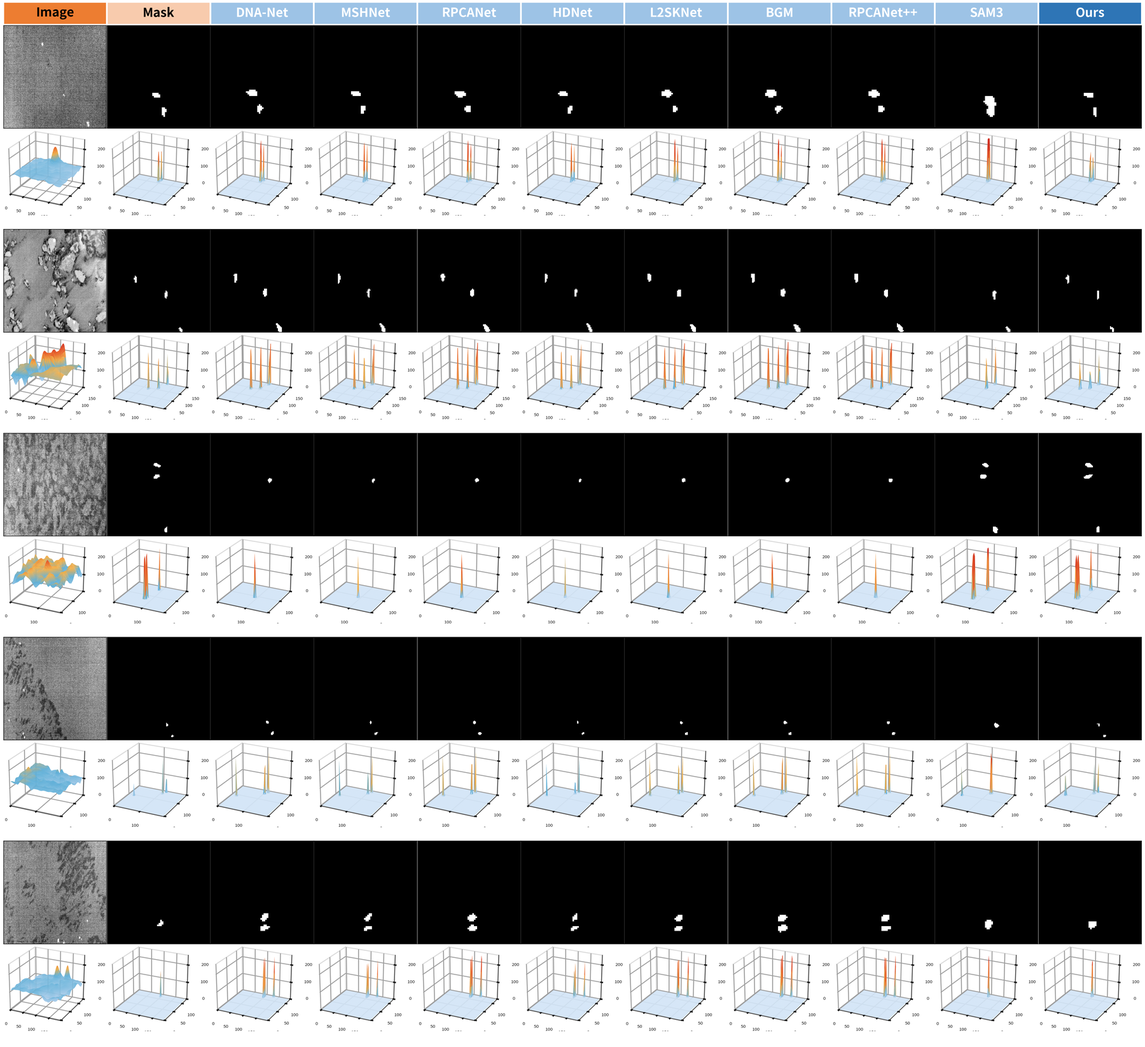
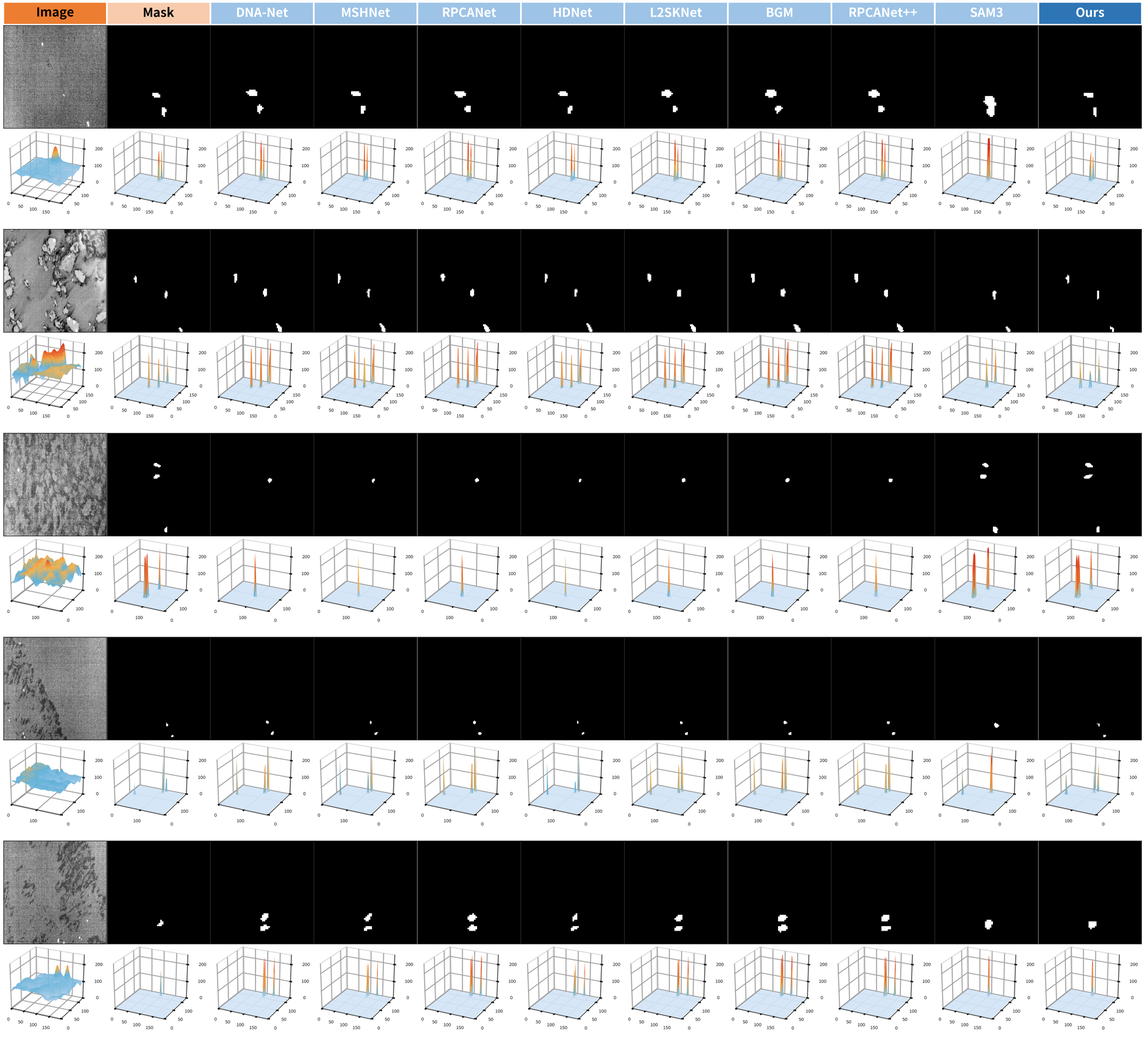
定性图 v12：3D 刻度收紧并改用 tight bbox，Visio ALL 页 3D 图缩小让开表头

diff --git a/tools/build_paper_qualitative.py b/tools/build_paper_qualitative.py
@@ -53,6 +53,8 @@ RED = (0, 0, 255)          # BGR
 ZOOM = 10
 MARGIN = 32
 MIN_BOX = 80
+# 3D 面板固定输出画布（1200 dpi 下 0.873x0.733 in 裁边后的实际尺寸），保证所有面板同比例
+SURF_W, SURF_H = 848, 804
 
 # 3D 响应面配色：浅蓝底（亮、不压抑）+ 暖色峰（金 → 橙 → 红）
 SURF_CMAP = LinearSegmentedColormap.from_list('seal3d', [
@@ -317,13 +319,31 @@ def trim_white(img_bgr, pad=10, thr=250):
     return img_bgr[y0:y1, x0:x1]
 
 
+def pad_to_canvas(img_bgr, W, H):
+    """Center the trimmed 3D render on a fixed WxH white canvas (no distortion).
+
+    固定画布保证所有 3D 面板同尺寸，Visio/拼图按同一比例摆放；内容大于画布时按比例缩小。
+    """
+    h, w = img_bgr.shape[:2]
+    if h > H or w > W:
+        s = min(W / float(w), H / float(h))
+        img_bgr = cv2.resize(img_bgr, (max(1, int(w * s)), max(1, int(h * s))),
+                             interpolation=cv2.INTER_AREA)
+        h, w = img_bgr.shape[:2]
+    out = np.full((H, W, 3), 255, np.uint8)
+    y0, x0 = (H - h) // 2, (W - w) // 2
+    out[y0:y0 + h, x0:x0 + w] = img_bgr
+    return out
+
+
 def render_surface_png(arr, path, vmax, cmap='jet', gamma=0.45,
-                       size_in=(0.873, 0.733), dpi=1200, pad=14):
+                       size_in=(0.873, 0.733), dpi=1200, pad=14,
+                       canvas=(SURF_W, SURF_H)):
     """One 3D box as a standalone PNG, tight-cropped so the box fills the frame.
 
     `arr` is the already-smoothed response crop. Rendered at one cell of the composite
     figure (0.873 x 0.733 in) with the same tick font, then the white border is trimmed
-    to `pad` px, so pasting it back with aspect='auto' fills the cell.
+    to `pad` px and centred on a fixed `canvas` so every panel shares one aspect ratio.
     """
     path.parent.mkdir(parents=True, exist_ok=True)
     f = plt.figure(figsize=size_in, dpi=dpi, facecolor='white')
@@ -333,15 +353,19 @@ def render_surface_png(arr, path, vmax, cmap='jet', gamma=0.45,
     import io
 
     buf = io.BytesIO()
-    f.savefig(buf, format='png', dpi=dpi, facecolor='white')
+    # bbox_inches='tight'：3D 轴的刻度数字会画到 axes 之外，不 tight 就会被画布裁掉
+    f.savefig(buf, format='png', dpi=dpi, facecolor='white',
+              bbox_inches='tight', pad_inches=0.02)
     plt.close(f)
     img = cv2.imdecode(np.frombuffer(buf.getvalue(), np.uint8), cv2.IMREAD_COLOR)
     img = trim_white(img, pad=pad)
+    if canvas:
+        img = pad_to_canvas(img, canvas[0], canvas[1])
     cv2.imwrite(str(path), img)
     return path
 
 
-def add_surface(ax, arr, vmax=255.0, cmap=SURF_CMAP, tick_font=2.2, gamma=0.40):
+def add_surface(ax, arr, vmax=255.0, cmap=SURF_CMAP, tick_font=2.35, gamma=0.40):
     """PDDiff Fig. 9 style surface with a legible wireframe and tick labels.
 
     `arr` must already be smoothed; `vmax` is normally the peak of `arr`, so the target
@@ -368,9 +392,9 @@ def add_surface(ax, arr, vmax=255.0, cmap=SURF_CMAP, tick_font=2.2, gamma=0.40):
     ax.yaxis.set_major_locator(loc)
     ax.zaxis.set_major_locator(MaxNLocator(nbins=3, integer=True, steps=[1, 2, 2.5, 5, 10]))
     for axis in ('x', 'y'):
-        ax.tick_params(axis=axis, labelsize=tick_font, pad=-3.0, length=0.9, width=0.4,
+        ax.tick_params(axis=axis, labelsize=tick_font, pad=-4.2, length=0.9, width=0.4,
                        colors='0.10')
-    ax.tick_params(axis='z', labelsize=tick_font, pad=-1.5, length=0.9, width=0.4,
+    ax.tick_params(axis='z', labelsize=tick_font, pad=-2.2, length=0.9, width=0.4,
                    colors='0.10')
     # 面板只有 0.87 in 宽，再放 X/Y/Z 轴名会和刻度数字撞在一起，只保留三向刻度数字
     ax.set_xlabel('')

diff --git a/AGENTS.md b/AGENTS.md
@@ -63,7 +63,7 @@
 - DRPCA-Net 的 11.23 FPS 是实现开销而非测量噪声：`torch.profiler` 显示单次前向 CUDA 时间的 81.8 % 花在 `ChannelAttention` 的 `nn.AdaptiveMaxPool2d(1)`（每前向 29 次调用），且延迟对 batch 1/2/4 不敏感（85/56/65 ms）。按官方代码如实记录，不改实现。口径、对照表与差异分析见 [Seal 复杂度指标说明](docs/Seal复杂度指标_说明.md)。
 - 平凡基线（决定读表方式，不新增表行）：全背景预测（1,983 张全零）在同一 test GT 上为 S 0.49990、Fw 0、E 0.25、MAE 0.00020553，IoU/F1/Pd/Fa 均为 0。12 个基线与 Ours 的 S（0.49800–0.49956）全部低于该值，12 个基线的 MAE（0.000229–0.000375）全部高于该值，只有 Ours 的 MAE（0.00020248）低于它，余量仅 1.5 %（旧预测 0.00015090 时余量 27 %）。因此 S/MAE 在 Seal 上不区分方法，比较以 Fw/IoU/F1/Pd/Fa 为主，S/MAE 须与平凡基线并列阅读；复算见 [汇总](docs/Seal全监督基线评估汇总.md#平凡基线全背景预测)。
 - 第三批（入表，行 29～32）：L2SKNet（TGRS25）、BGM（TGRS25）、DRPCA-Net（TGRS25）、DURD（TGRS26），均为 2025–2026 年、有官方代码的全监督单帧方法，12 个对比方法到此凑满。目录 `L2SKNet-main/`、`BGM-main/`、`DRPCA-Net-main/`、`DURD-main/`；训练设置：L2SKNet 150/Adam 5e-4、BGM 150/Adam 5e-4（两者模型输出已是概率，用概率空间 dataset 级 IoU）、DRPCA-Net 60/Adam 3e-5/dataset 级 SoftIoU + 0.01 MSE、DURD 100/Adam 1e-4/SoftIoU + 0.1 MSE。各处改动逐条写在对应实验记录与 [汇总](docs/Seal全监督基线评估汇总.md#训练不稳定与失败记录)。
-- 论文版式定性图（对齐 PDDiff Fig. 8/9）：[tools/build_paper_qualitative.py](tools/build_paper_qualitative.py)，每个样例两行（2D 二值面板 + 红框/放大插图；3D 响应面 `elev=26, azim=-64`、按面板 z 上限）。三条硬约束：① 3D 行必须喂**概率图**（`--surf-maps results/<M>/Seal/fullsup_test_maps`），二值图是 0/255 阶跃，画出来只有一根尖刺；② Seal 目标只有 3–5 px，`full` 版式（整幅 + 右下插图）在 0.87 in 列宽下几乎看不见，正式图用 `--roi-panels`（面板 = 6 倍放大 ROI，`--roi-min 64 --roi-margin 24`）；③ 11 列 × 11 样例按 9.6 in 出图，若按 7.2 in 排版表头掉到 5.6 pt，主图应拆成 `seal_pick6_roi` + `seal_pick5_roi` 两张。样例取 [docs/qualitative_rank_top200.json](docs/qualitative_rank_top200.json)（`score = F1(Ours) − mean_k F1(baseline_k)`，可用 [docs/qualitative_review_top200.html](docs/qualitative_review_top200.html) 逐图复核），当前采用排名 1,2,5,6,8,11,13,15,19,21,29 共 11 张，一键重建 [tools/make_paper_qualitative_pick.sh](tools/make_paper_qualitative_pick.sh)。Ours 预测在 `Ours/test_maps`（1,983 张概率图）、SAM3 在 `Ours/SAM3-test_maps`（同阈值 `>=128`）。版式规格、样例清单与读数见 [docs/Seal定性图_论文版式.md](docs/Seal定性图_论文版式.md)，预览 `docs/assets/seal_qualitative_pick6_roi.png`、`docs/assets/seal_qualitative_pick11_full.png`。全分辨率成品（600 dpi PNG + 矢量 PDF + meta，约 110 MB/版）按版本归档：服务器保留全部历史（v1 `Ours/qualitative/v1_20261104_11col/`、v2 `v2_20261105/`、v3 `v3_20261105/`、v4 `v4_20261105/`、v5 `v5_20261105/`、v6 `v6_20261105/`、v7 `v7_20261105/`、v8 `v8_20261105/`、v9 `v9_20261105/`、v10 `v10_20261105/`、v11 `v11_20261105/`、v12 `v12_20261105/`），本地只留最新一版在 `Ours/qualitative/v12_20261105/`；**整个 `Ours/qualitative/` 不进 git**（`.gitignore` 整目录排除，只有 `docs/assets/` 里的 1800 px 预览入库）。版式演进：v2 压紧列间距、3D 加网格 + 整数刻度 + 轴名、去掉黑色粗轴线；v3 加单图拆分与 Visio；v4 让 3D 盒子铺满格子（按格子尺寸渲染 PNG → 裁白边 → `aspect='auto'` 贴回）；**v5 解决「3D 白边仍偏大、峰不够高不够显眼」：裁边 26→6 px、平滑 σ 2.0→0.9、`vmax` 取平滑后峰值（峰顶到天花板）、Z 轴统一 0–255 保证跨列可比、盒子 z 比例 0.55→1.00、自定义 `seal3d` 色带（深蓝底→青→黄→亮红）+ `PowerNorm(0.45)`**；并新增 `--diag` 诊断面板（TP 白 / FP 红 / FN 绿 + 红框标 GT），Visio 改用诊断面板；**v6 把诊断面板的红框放大到至少占面板 36%（约 138 px、3 px 线）**；**v11：Ours 换成 1105 最新预测**（`Ours/test_maps` ← `1105Ours_result/Ours.zip`，旧预测存 `Ours/test_maps_20261105_prev`），版式同 v10；11 个样例在新预测下 F1 0.55–0.87、目标全检出（9 个胜全部基线，2 个仅比 SAM3 低 0.01–0.02），故沿用原 11 张；**v10 红框只留一个**：Image 列回到整幅 622×417（压缩成正方形）并画唯一一个正方形红框（v11 曾把边长统一为 `64×sqrt(sx·sy)≈48 px`；**v12 起 Image 列不再画任何红框**——统一 48 px 对 2688/2120/2894 三个大目标偏小、目标露到框外，而各列本来就是同一 ROI 的 6 倍放大，定位框不再必要，实测 Image 列 0 个红色像素；`--image-box` 仅保留为复现 v10/v11 的开关），Mask…Ours 不再画任何红框，保留 TP 白/FP 红/FN 绿；`--image-mode crop417` 可换成 417×417 原比例窗口；**v9 去掉黑边**：ROI 从「以目标为中心后按边界裁」改成「固定边长正方形、贴边整体内移」，窗口永远完整落在图像内（此前 2735 这类贴右边界的样例裁成 64×43 后被补黑）；**v8 修正 Image 列**：原来它是整幅 622×417（红框=ROI 窗口），而 Mask/方法列是已经放大 6 倍的 ROI 块（红框=GT 定位框），两者天然不对应——现在 Image 列也取同一块 ROI 的 6 倍放大并套同一个定位框，11 列视野与框位置完全一致——红框是给人定位用的，v5 那版只比 GT 外扩 8 px，印刷尺寸下等于没有。**v7 再优化三点：① 3D 网格线 0.62 灰 / 0.45 pt、刻度数字 2.2 pt 近黑、每轴 3 个好刻度、去掉会撞车的 X/Y/Z 轴名；② Image 列 3D 改彩色（`seal3d` 色带 + 线性映射，与 PDDiff 一致）；③ 诊断面板遇到多目标时每个连通域各画一个红框（单目标 36% 面板、多目标 0.45/n）**。Visio 版由 [tools/make_visio_qualitative.ps1](tools/make_visio_qualitative.ps1) 用 Visio COM 生成（仅 Windows + 已装 Visio）：**第 1 页 `ALL` 把 11 个样例纵向摞成一页**（表头只出现一次，253 个形状，15×31.3 in），之后每样例一页（每页 34 个独立形状：表头矩形 + 22 张图片 + 页脚说明），全部可手动调整格式。
+- 论文版式定性图（对齐 PDDiff Fig. 8/9）：[tools/build_paper_qualitative.py](tools/build_paper_qualitative.py)，每个样例两行（2D 二值面板 + 红框/放大插图；3D 响应面 `elev=26, azim=-64`、按面板 z 上限）。三条硬约束：① 3D 行必须喂**概率图**（`--surf-maps results/<M>/Seal/fullsup_test_maps`），二值图是 0/255 阶跃，画出来只有一根尖刺；② Seal 目标只有 3–5 px，`full` 版式（整幅 + 右下插图）在 0.87 in 列宽下几乎看不见，正式图用 `--roi-panels`（面板 = 6 倍放大 ROI，`--roi-min 64 --roi-margin 24`）；③ 11 列 × 11 样例按 9.6 in 出图，若按 7.2 in 排版表头掉到 5.6 pt，主图应拆成 `seal_pick6_roi` + `seal_pick5_roi` 两张。样例取 [docs/qualitative_rank_top200.json](docs/qualitative_rank_top200.json)（`score = F1(Ours) − mean_k F1(baseline_k)`，可用 [docs/qualitative_review_top200.html](docs/qualitative_review_top200.html) 逐图复核），当前采用排名 1,2,5,6,8,11,13,15,19,21,29 共 11 张，一键重建 [tools/make_paper_qualitative_pick.sh](tools/make_paper_qualitative_pick.sh)。Ours 预测在 `Ours/test_maps`（1,983 张概率图）、SAM3 在 `Ours/SAM3-test_maps`（同阈值 `>=128`）。版式规格、样例清单与读数见 [docs/Seal定性图_论文版式.md](docs/Seal定性图_论文版式.md)，预览 `docs/assets/seal_qualitative_pick6_roi.png`、`docs/assets/seal_qualitative_pick11_full.png`。全分辨率成品（600 dpi PNG + 矢量 PDF + meta，约 110 MB/版）按版本归档：服务器保留全部历史（v1 `Ours/qualitative/v1_20261104_11col/`、v2 `v2_20261105/`、v3 `v3_20261105/`、v4 `v4_20261105/`、v5 `v5_20261105/`、v6 `v6_20261105/`、v7 `v7_20261105/`、v8 `v8_20261105/`、v9 `v9_20261105/`、v10 `v10_20261105/`、v11 `v11_20261105/`、v12 `v12_20261105/`），本地只留最新一版在 `Ours/qualitative/v12_20261105/`；**整个 `Ours/qualitative/` 不进 git**（`.gitignore` 整目录排除，只有 `docs/assets/` 里的 1800 px 预览入库）。版式演进：v2 压紧列间距、3D 加网格 + 整数刻度 + 轴名、去掉黑色粗轴线；v3 加单图拆分与 Visio；v4 让 3D 盒子铺满格子（按格子尺寸渲染 PNG → 裁白边 → `aspect='auto'` 贴回）；**v5 解决「3D 白边仍偏大、峰不够高不够显眼」：裁边 26→6 px、平滑 σ 2.0→0.9、`vmax` 取平滑后峰值（峰顶到天花板）、Z 轴统一 0–255 保证跨列可比、盒子 z 比例 0.55→1.00、自定义 `seal3d` 色带（深蓝底→青→黄→亮红）+ `PowerNorm(0.45)`**；并新增 `--diag` 诊断面板（TP 白 / FP 红 / FN 绿 + 红框标 GT），Visio 改用诊断面板；**v6 把诊断面板的红框放大到至少占面板 36%（约 138 px、3 px 线）**；**v11：Ours 换成 1105 最新预测**（`Ours/test_maps` ← `1105Ours_result/Ours.zip`，旧预测存 `Ours/test_maps_20261105_prev`），版式同 v10；11 个样例在新预测下 F1 0.55–0.87、目标全检出（9 个胜全部基线，2 个仅比 SAM3 低 0.01–0.02），故沿用原 11 张；**v10 红框只留一个**：Image 列回到整幅 622×417（压缩成正方形）并画唯一一个正方形红框（v11 曾把边长统一为 `64×sqrt(sx·sy)≈48 px`；**v12 起 Image 列不再画任何红框**——统一 48 px 对 2688/2120/2894 三个大目标偏小、目标露到框外，而各列本来就是同一 ROI 的 6 倍放大，定位框不再必要，实测 Image 列 0 个红色像素；`--image-box` 仅保留为复现 v10/v11 的开关），Mask…Ours 不再画任何红框，保留 TP 白/FP 红/FN 绿；**v12 同时收紧 3D 刻度**：刻度数字向坐标轴收拢（x/y `pad` −3.0→−4.2、z −1.5→−2.2，字号 2.2→2.35），3D 渲染改用 `bbox_inches='tight'` 并统一贴到 848×804 画布（此前 3D 轴的数字画在 axes 之外、被画布直接裁掉，放进 Visio 后又被下一个样例的表头挡住），Visio `ALL` 页的 3D 图缩到 1.07 in 高（宽同比 1.129）让开下一块表头，2D 行与手画红框位置不动；`--image-mode crop417` 可换成 417×417 原比例窗口；**v9 去掉黑边**：ROI 从「以目标为中心后按边界裁」改成「固定边长正方形、贴边整体内移」，窗口永远完整落在图像内（此前 2735 这类贴右边界的样例裁成 64×43 后被补黑）；**v8 修正 Image 列**：原来它是整幅 622×417（红框=ROI 窗口），而 Mask/方法列是已经放大 6 倍的 ROI 块（红框=GT 定位框），两者天然不对应——现在 Image 列也取同一块 ROI 的 6 倍放大并套同一个定位框，11 列视野与框位置完全一致——红框是给人定位用的，v5 那版只比 GT 外扩 8 px，印刷尺寸下等于没有。**v7 再优化三点：① 3D 网格线 0.62 灰 / 0.45 pt、刻度数字 2.2 pt 近黑、每轴 3 个好刻度、去掉会撞车的 X/Y/Z 轴名；② Image 列 3D 改彩色（`seal3d` 色带 + 线性映射，与 PDDiff 一致）；③ 诊断面板遇到多目标时每个连通域各画一个红框（单目标 36% 面板、多目标 0.45/n）**。Visio 版由 [tools/make_visio_qualitative.ps1](tools/make_visio_qualitative.ps1) 用 Visio COM 生成（仅 Windows + 已装 Visio）：**第 1 页 `ALL` 把 11 个样例纵向摞成一页**（表头只出现一次，253 个形状，15×31.3 in），之后每样例一页（每页 34 个独立形状：表头矩形 + 22 张图片 + 页脚说明），全部可手动调整格式。
 - 定性图（论文拼图用）：12 个方法与 Ours 的二值预测图在 `results/<Method>/Seal/test_binary/`（1,983 张，`pixel >= 128` → 255），由 [tools/make_binary_maps.py](tools/make_binary_maps.py) 与 [tools/make_qualitative.sh](tools/make_qualitative.sh) 生成；样例拼图在服务器 `qualitative/<stem>/panel.png`（RGB/热红外/GT/预测叠加，13 行），样例清单 `docs/Seal定性对比样例.json`，说明见 [docs/Seal定性对比图.md](docs/Seal定性对比图.md)。
 - ROC / P-R / Pd–Fa 曲线：像素级曲线用 [tools/roc_hist.py](tools/roc_hist.py) 把预测值按 GT 前景（`gt > 127`）/背景分箱成 256 桶直方图（[tools/roc_hist_all.sh](tools/roc_hist_all.sh) → `results/roc_hist/<Method>.json`），目标级曲线用 [tools/target_curves.py](tools/target_curves.py) 在 63 个阈值上做 8 连通 + 质心 <3 px 一对一匹配（[tools/target_curves_all.sh](tools/target_curves_all.sh) 13 进程并行约 1.5 h → `results/target_curves/<Method>.json`）；出图分别是 [tools/plot_roc_pr.py](tools/plot_roc_pr.py) 与 [tools/plot_target_curves.py](tools/plot_target_curves.py)。产物按版本存 `Ours/roc_pr/<version>/`，**`v10_20261105/`（正文主图，Ours + 8 个重点对比方法：DNA-Net / MSHNet / RPCANet / HDNet / L2SKNet / BGM / RPCANet++ / SAM3）与 `v11_20261105/`（全量 14 条：再加 UIU-Net / SCTransNet / ILNet / DRPCA-Net / DURD）**，两者横轴都改成 **0–16×10⁻⁴（刻度 0/4/8/12/16）**，斜线因此更陡；**v10 用 1:1 坐标框（`--square`），v11 用 6.8×3.3 的长方形画布（不带 `--square`，约 1.92:1，用户偏好）**；`v9_20261105/`（全量）与 `v8_20261105/`（8 个）是 8×10⁻⁴ 宽扁版式的前身**，画法沿用 v5，Ours 红色加粗置顶（`--highlight Ours`）；`v7_20261105/` 是旧 Ours 预测的同一版式，`v6_20261105/` 是误删 Ours 的一版，二者仅留档；`v5_20261105/` 为 13 方法版（Ours + 12 基线），**`v12_20261105/` 为现行目标级 Pd–Fa（1105 批次，线性 + log）**，**`v13_20261105/` 是 v11 的 P-R 改进版**（画布、ROC 与 v11 逐点相同，只改 P-R 的显示：`--pr-min-pred 50000` + `--pr-endpoint-dot`，见下条），`v3_20261105/` 为旧预测的目标级版，`v4/v2/v1` 留档；每次同时存 PNG（600 dpi）与 PDF + `curves.json` + `summary.md`。**画法（用户明确要求）**：每个方法一条折线且只有两段直线——`(0,0) → 拐点 → (右边框, 平台)`；平台取右边框处的值（像素级 = TPR@FPR=窗口右端，目标级 = max Pd），拐点 = 沿横轴升序第一个 ≥0.98×平台 的点（`--two-segment`、`--knee-frac`）。横轴要够长（v10/v11 用 `--xmax 16e-4 --fig-width 4.8 --square`；v8/v9 为 `--xmax 8e-4 --fig-width 6.8`），否则平台贴右边框、看起来"戛然而止"；**`--square` 把坐标框设成 1:1**（`set_box_aspect(1)`），ROC 的斜线与纵轴夹角更小、P-R 是标准 45°；**`--legend-inside` 把图例放进坐标框**（ROC 右下、P-R 左下，>9 条自动两列），导出的 PNG 因此更紧凑（v10 正方形 2645×2564；v11 长方形 3589×1871）；两联图 `roc_pr` 的面板间距 0.28→0.14；改横轴时平台值按新的右边框取（`TPR@窗口右端`），所以 8→16×10⁻⁴ 后 SCTransNet/ILNet/UIU-Net 的平台从 0.88 升到 0.94；**面积指标仍报 `pAUC@5×10⁻⁴`**，该列不随画宽变化；P-R 保留 (0,1) 起点与 recall→1 的尾巴（`--pr-style v1`）；**P-R 为什么像"扇子且在半空截断"（v13 处理）**：Seal 预测是 8 位量化 + 大量硬零（`t=255` 时前景召回只有 0.25–0.61，多数方法在 28–57 % 的 GT 像素上恒为 0），recall 到不了 1，曲线右端自然停住；同时 `t` 接近 255 时整幅只剩几千个预测像素，precision 由个位数像素决定，于是 recall≈0 处冒出竖直毛刺、各条曲线分叉成扇面。v13 用两个**纯显示**开关处理、不动数据：`--pr-min-pred 50000` 丢掉"预测像素 < 5 万"的阈值（毛刺缩到几乎看不见）、`--pr-endpoint-dot` 在每条曲线末端加圆点（读作"到此为止"而非"画漏了"）；仍保留 (0,1) 哨兵，因为去掉后起点悬空（`--pr-style v2` 试过）。数据侧原因（硬零压低 recall）只能靠模型/后处理改，画图解决不了，分析见 [docs/Seal_ROC_PR曲线.md](docs/Seal_ROC_PR曲线.md)；**补充图 `v13_20261105/pr_1.{png,pdf}`**（`--pr-close`）把每条曲线从最后实测点**虚线**外推到 `(1,0)`、交接点画空心圆（实线=实测、虚线=外推）：这不是新数据，只说明"曲线本来就该到 (1,0)"——`recall=1` 时 precision 等于前景占比（Seal test 前景 105,712 px / 总 514,338,642 px = **2.06×10⁻⁴**），在 0–1 纵轴上即 0，所以补到 (1,0) 与补到 (1,2e-4) 肉眼无差；中间段按直线近似故称"大致"，虚线段不参与 pAUC/AP 积分，排名不变；补齐后各虚线在右下角**收成一束**是应有现象，不表示方法接近；图例贴紧坐标轴右缘（`bbox_to_anchor=(ax.x1+0.012, …)`，锚在固定图幅比例上会留一大片空白）；`--highlight` 指定加粗置顶的方法（默认 `Ours`，方法集里没有它时不加粗）；**红色只留给 highlight**，其余曲线从不含红色的 16 色调色板里取（`color_map()`），否则 14 条曲线时第一个基线和 Ours 会同为红色。**一致性**：像素级 `t=128` 的 precision/recall 可复原表中 F1/IoU（Ours precision 0.58130、recall 0.82963 → F1 0.68361、IoU 0.51931，与第 20 行一致；旧预测同点为 0.64637/0.59388 → 0.61912/0.44835）；目标级 `t=128` 的 Pd/Fa 与表中 13 行全部逐位吻合（Ours 0.89151 / 1.717e-05，与第 20 行一致；旧预测 0.82731 / 2.100e-06 存档于 `results/target_curves/Ours_prev_20261105.json`）。**读图**：① 面积指标报 **pAUC@5×10⁻⁴**（基线操作点 Fa@t=128 ≤ 2.4×10⁻⁴）；v8 换上 1105 的最新 Ours 后，两个窗口的 pAUC（**0.85234 / 0.89420**）与 AP（**0.69984**）都第一，像素 TPR@t=128 从 0.594 提到 **0.830**、FPR 从 6.7×10⁻⁵ 升到 1.2×10⁻⁴（仍是 9 个里第二低）；ROC 上 Ours 在 FPR≈3×10⁻⁴ 就到 0.94 平台，其余 8 个最高只有 0.737；SAM3 平台最高（0.737）但拐点在 4.9×10⁻⁴、Fa 是 Ours 的 3.6 倍，属"用更多误检换更高检出"，正文要把 Fa 一并给出；画到 8×10⁻⁴ 后按窗口积的 `pAUC@8×10⁻⁴` 会把弥散输出方法抬高，summary 两个窗口都列；② 全范围 AUC 不能用来排名（几乎不预测前景的方法 0.977–0.981），与 S/MAE 被背景主导同类；③ 目标级图（`v12_20261105/`，1105 批次）Ours 平台 Pd 0.922 最高、拐点 Fa 6.0×10⁻⁶ 比次优 HDNet（5.2×10⁻⁵）低 8.6 倍，拐点 Fa 跨度 17 倍，**目标级仍主推 log 轴**；④ 像素级 `Pd@t=128` 是前景像素召回率，与表中目标级 Pd 不同口径。曲线成品按同样目录结构同步到服务器 `Ours/roc_pr/`，重画脚本同步在服务器 `tools/`；1105 的 Ours 预测包同时上传到服务器 `Ours/1105Ours_result/Ours.zip`。**曲线与第 20 行 Ours 的八项指标现在同为 1105 这批预测**，可以互相引证；旧预测（`test_maps_20261105_prev`）的曲线与指标只作历史对照。口径、版本对照与复现命令见 [docs/Seal_ROC_PR曲线.md](docs/Seal_ROC_PR曲线.md)，预览 `docs/assets/seal_roc_pr_v13.png`（现行，全量 14 条）、`docs/assets/seal_roc_pr_v10.png`（8 个对比方法版）、`docs/assets/seal_pd_fa_v12.png`（现行目标级）、`docs/assets/seal_pd_fa_v3.png`（旧预测目标级）。
 - IoU 的边界敏感性：Seal 目标平均 14.3 像素，把 GT 膨胀/腐蚀 1 像素当预测只能得到 IoU 0.3910 / 0.0826；表中 IoU 0.19–0.31 对应约 1–2 像素边界误差，不能读作分割质量百分比，须与 Fw/F1/Pd/Fa 合看，详见 [定义对照](docs/小目标评价指标_定义与代码对照.md#iou-的边界敏感性seal-gt-实测)。

diff --git a/README.md b/README.md
@@ -66,7 +66,7 @@
 - DRPCA-Net 的 11.23 FPS 是实现开销而非测量噪声：`torch.profiler` 显示单次前向 CUDA 时间的 81.8 % 花在 `ChannelAttention` 的 `nn.AdaptiveMaxPool2d(1)`（每前向 29 次调用），且延迟对 batch 1/2/4 不敏感（85/56/65 ms）。按官方代码如实记录，不改实现。口径、对照表与差异分析见 [Seal 复杂度指标说明](docs/Seal复杂度指标_说明.md)。
 - 平凡基线（决定读表方式，不新增表行）：全背景预测（1,983 张全零）在同一 test GT 上为 S 0.49990、Fw 0、E 0.25、MAE 0.00020553，IoU/F1/Pd/Fa 均为 0。12 个基线与 Ours 的 S（0.49800–0.49956）全部低于该值，12 个基线的 MAE（0.000229–0.000375）全部高于该值，只有 Ours 的 MAE（0.00020248）低于它，余量仅 1.5 %（旧预测 0.00015090 时余量 27 %）。因此 S/MAE 在 Seal 上不区分方法，比较以 Fw/IoU/F1/Pd/Fa 为主，S/MAE 须与平凡基线并列阅读；复算见 [汇总](docs/Seal全监督基线评估汇总.md#平凡基线全背景预测)。
 - 第三批（入表，行 29～32）：L2SKNet（TGRS25）、BGM（TGRS25）、DRPCA-Net（TGRS25）、DURD（TGRS26），均为 2025–2026 年、有官方代码的全监督单帧方法，12 个对比方法到此凑满。目录 `L2SKNet-main/`、`BGM-main/`、`DRPCA-Net-main/`、`DURD-main/`；训练设置：L2SKNet 150/Adam 5e-4、BGM 150/Adam 5e-4（两者模型输出已是概率，用概率空间 dataset 级 IoU）、DRPCA-Net 60/Adam 3e-5/dataset 级 SoftIoU + 0.01 MSE、DURD 100/Adam 1e-4/SoftIoU + 0.1 MSE。各处改动逐条写在对应实验记录与 [汇总](docs/Seal全监督基线评估汇总.md#训练不稳定与失败记录)。
-- 论文版式定性图（对齐 PDDiff Fig. 8/9）：[tools/build_paper_qualitative.py](tools/build_paper_qualitative.py)，每个样例两行（2D 二值面板 + 红框/放大插图；3D 响应面 `elev=26, azim=-64`、按面板 z 上限）。三条硬约束：① 3D 行必须喂**概率图**（`--surf-maps results/<M>/Seal/fullsup_test_maps`），二值图是 0/255 阶跃，画出来只有一根尖刺；② Seal 目标只有 3–5 px，`full` 版式（整幅 + 右下插图）在 0.87 in 列宽下几乎看不见，正式图用 `--roi-panels`（面板 = 6 倍放大 ROI，`--roi-min 64 --roi-margin 24`）；③ 11 列 × 11 样例按 9.6 in 出图，若按 7.2 in 排版表头掉到 5.6 pt，主图应拆成 `seal_pick6_roi` + `seal_pick5_roi` 两张。样例取 [docs/qualitative_rank_top200.json](docs/qualitative_rank_top200.json)（`score = F1(Ours) − mean_k F1(baseline_k)`，可用 [docs/qualitative_review_top200.html](docs/qualitative_review_top200.html) 逐图复核），当前采用排名 1,2,5,6,8,11,13,15,19,21,29 共 11 张，一键重建 [tools/make_paper_qualitative_pick.sh](tools/make_paper_qualitative_pick.sh)。Ours 预测在 `Ours/test_maps`（1,983 张概率图）、SAM3 在 `Ours/SAM3-test_maps`（同阈值 `>=128`）。版式规格、样例清单与读数见 [docs/Seal定性图_论文版式.md](docs/Seal定性图_论文版式.md)，预览 `docs/assets/seal_qualitative_pick6_roi.png`、`docs/assets/seal_qualitative_pick11_full.png`。全分辨率成品（600 dpi PNG + 矢量 PDF + meta，约 110 MB/版）按版本归档：服务器保留全部历史（v1 `Ours/qualitative/v1_20261104_11col/`、v2 `v2_20261105/`、v3 `v3_20261105/`、v4 `v4_20261105/`、v5 `v5_20261105/`、v6 `v6_20261105/`、v7 `v7_20261105/`、v8 `v8_20261105/`、v9 `v9_20261105/`、v10 `v10_20261105/`、v11 `v11_20261105/`、v12 `v12_20261105/`），本地只留最新一版在 `Ours/qualitative/v12_20261105/`；**整个 `Ours/qualitative/` 不进 git**（`.gitignore` 整目录排除，只有 `docs/assets/` 里的 1800 px 预览入库）。版式演进：v2 压紧列间距、3D 加网格 + 整数刻度 + 轴名、去掉黑色粗轴线；v3 加单图拆分与 Visio；v4 让 3D 盒子铺满格子（按格子尺寸渲染 PNG → 裁白边 → `aspect='auto'` 贴回）；**v5 解决「3D 白边仍偏大、峰不够高不够显眼」：裁边 26→6 px、平滑 σ 2.0→0.9、`vmax` 取平滑后峰值（峰顶到天花板）、Z 轴统一 0–255 保证跨列可比、盒子 z 比例 0.55→1.00、自定义 `seal3d` 色带（深蓝底→青→黄→亮红）+ `PowerNorm(0.45)`**；并新增 `--diag` 诊断面板（TP 白 / FP 红 / FN 绿 + 红框标 GT），Visio 改用诊断面板；**v6 把诊断面板的红框放大到至少占面板 36%（约 138 px、3 px 线）**；**v11：Ours 换成 1105 最新预测**（`Ours/test_maps` ← `1105Ours_result/Ours.zip`，旧预测存 `Ours/test_maps_20261105_prev`），版式同 v10；11 个样例在新预测下 F1 0.55–0.87、目标全检出（9 个胜全部基线，2 个仅比 SAM3 低 0.01–0.02），故沿用原 11 张；**v10 红框只留一个**：Image 列回到整幅 622×417（压缩成正方形）并画唯一一个正方形红框（v11 曾把边长统一为 `64×sqrt(sx·sy)≈48 px`；**v12 起 Image 列不再画任何红框**——统一 48 px 对 2688/2120/2894 三个大目标偏小、目标露到框外，而各列本来就是同一 ROI 的 6 倍放大，定位框不再必要，实测 Image 列 0 个红色像素；`--image-box` 仅保留为复现 v10/v11 的开关），Mask…Ours 不再画任何红框，保留 TP 白/FP 红/FN 绿；`--image-mode crop417` 可换成 417×417 原比例窗口；**v9 去掉黑边**：ROI 从「以目标为中心后按边界裁」改成「固定边长正方形、贴边整体内移」，窗口永远完整落在图像内（此前 2735 这类贴右边界的样例裁成 64×43 后被补黑）；**v8 修正 Image 列**：原来它是整幅 622×417（红框=ROI 窗口），而 Mask/方法列是已经放大 6 倍的 ROI 块（红框=GT 定位框），两者天然不对应——现在 Image 列也取同一块 ROI 的 6 倍放大并套同一个定位框，11 列视野与框位置完全一致——红框是给人定位用的，v5 那版只比 GT 外扩 8 px，印刷尺寸下等于没有。**v7 再优化三点：① 3D 网格线 0.62 灰 / 0.45 pt、刻度数字 2.2 pt 近黑、每轴 3 个好刻度、去掉会撞车的 X/Y/Z 轴名；② Image 列 3D 改彩色（`seal3d` 色带 + 线性映射，与 PDDiff 一致）；③ 诊断面板遇到多目标时每个连通域各画一个红框（单目标 36% 面板、多目标 0.45/n）**。Visio 版由 [tools/make_visio_qualitative.ps1](tools/make_visio_qualitative.ps1) 用 Visio COM 生成（仅 Windows + 已装 Visio）：**第 1 页 `ALL` 把 11 个样例纵向摞成一页**（表头只出现一次，253 个形状，15×31.3 in），之后每样例一页（每页 34 个独立形状：表头矩形 + 22 张图片 + 页脚说明），全部可手动调整格式。
+- 论文版式定性图（对齐 PDDiff Fig. 8/9）：[tools/build_paper_qualitative.py](tools/build_paper_qualitative.py)，每个样例两行（2D 二值面板 + 红框/放大插图；3D 响应面 `elev=26, azim=-64`、按面板 z 上限）。三条硬约束：① 3D 行必须喂**概率图**（`--surf-maps results/<M>/Seal/fullsup_test_maps`），二值图是 0/255 阶跃，画出来只有一根尖刺；② Seal 目标只有 3–5 px，`full` 版式（整幅 + 右下插图）在 0.87 in 列宽下几乎看不见，正式图用 `--roi-panels`（面板 = 6 倍放大 ROI，`--roi-min 64 --roi-margin 24`）；③ 11 列 × 11 样例按 9.6 in 出图，若按 7.2 in 排版表头掉到 5.6 pt，主图应拆成 `seal_pick6_roi` + `seal_pick5_roi` 两张。样例取 [docs/qualitative_rank_top200.json](docs/qualitative_rank_top200.json)（`score = F1(Ours) − mean_k F1(baseline_k)`，可用 [docs/qualitative_review_top200.html](docs/qualitative_review_top200.html) 逐图复核），当前采用排名 1,2,5,6,8,11,13,15,19,21,29 共 11 张，一键重建 [tools/make_paper_qualitative_pick.sh](tools/make_paper_qualitative_pick.sh)。Ours 预测在 `Ours/test_maps`（1,983 张概率图）、SAM3 在 `Ours/SAM3-test_maps`（同阈值 `>=128`）。版式规格、样例清单与读数见 [docs/Seal定性图_论文版式.md](docs/Seal定性图_论文版式.md)，预览 `docs/assets/seal_qualitative_pick6_roi.png`、`docs/assets/seal_qualitative_pick11_full.png`。全分辨率成品（600 dpi PNG + 矢量 PDF + meta，约 110 MB/版）按版本归档：服务器保留全部历史（v1 `Ours/qualitative/v1_20261104_11col/`、v2 `v2_20261105/`、v3 `v3_20261105/`、v4 `v4_20261105/`、v5 `v5_20261105/`、v6 `v6_20261105/`、v7 `v7_20261105/`、v8 `v8_20261105/`、v9 `v9_20261105/`、v10 `v10_20261105/`、v11 `v11_20261105/`、v12 `v12_20261105/`），本地只留最新一版在 `Ours/qualitative/v12_20261105/`；**整个 `Ours/qualitative/` 不进 git**（`.gitignore` 整目录排除，只有 `docs/assets/` 里的 1800 px 预览入库）。版式演进：v2 压紧列间距、3D 加网格 + 整数刻度 + 轴名、去掉黑色粗轴线；v3 加单图拆分与 Visio；v4 让 3D 盒子铺满格子（按格子尺寸渲染 PNG → 裁白边 → `aspect='auto'` 贴回）；**v5 解决「3D 白边仍偏大、峰不够高不够显眼」：裁边 26→6 px、平滑 σ 2.0→0.9、`vmax` 取平滑后峰值（峰顶到天花板）、Z 轴统一 0–255 保证跨列可比、盒子 z 比例 0.55→1.00、自定义 `seal3d` 色带（深蓝底→青→黄→亮红）+ `PowerNorm(0.45)`**；并新增 `--diag` 诊断面板（TP 白 / FP 红 / FN 绿 + 红框标 GT），Visio 改用诊断面板；**v6 把诊断面板的红框放大到至少占面板 36%（约 138 px、3 px 线）**；**v11：Ours 换成 1105 最新预测**（`Ours/test_maps` ← `1105Ours_result/Ours.zip`，旧预测存 `Ours/test_maps_20261105_prev`），版式同 v10；11 个样例在新预测下 F1 0.55–0.87、目标全检出（9 个胜全部基线，2 个仅比 SAM3 低 0.01–0.02），故沿用原 11 张；**v10 红框只留一个**：Image 列回到整幅 622×417（压缩成正方形）并画唯一一个正方形红框（v11 曾把边长统一为 `64×sqrt(sx·sy)≈48 px`；**v12 起 Image 列不再画任何红框**——统一 48 px 对 2688/2120/2894 三个大目标偏小、目标露到框外，而各列本来就是同一 ROI 的 6 倍放大，定位框不再必要，实测 Image 列 0 个红色像素；`--image-box` 仅保留为复现 v10/v11 的开关），Mask…Ours 不再画任何红框，保留 TP 白/FP 红/FN 绿；**v12 同时收紧 3D 刻度**：刻度数字向坐标轴收拢（x/y `pad` −3.0→−4.2、z −1.5→−2.2，字号 2.2→2.35），3D 渲染改用 `bbox_inches='tight'` 并统一贴到 848×804 画布（此前 3D 轴的数字画在 axes 之外、被画布直接裁掉，放进 Visio 后又被下一个样例的表头挡住），Visio `ALL` 页的 3D 图缩到 1.07 in 高（宽同比 1.129）让开下一块表头，2D 行与手画红框位置不动；`--image-mode crop417` 可换成 417×417 原比例窗口；**v9 去掉黑边**：ROI 从「以目标为中心后按边界裁」改成「固定边长正方形、贴边整体内移」，窗口永远完整落在图像内（此前 2735 这类贴右边界的样例裁成 64×43 后被补黑）；**v8 修正 Image 列**：原来它是整幅 622×417（红框=ROI 窗口），而 Mask/方法列是已经放大 6 倍的 ROI 块（红框=GT 定位框），两者天然不对应——现在 Image 列也取同一块 ROI 的 6 倍放大并套同一个定位框，11 列视野与框位置完全一致——红框是给人定位用的，v5 那版只比 GT 外扩 8 px，印刷尺寸下等于没有。**v7 再优化三点：① 3D 网格线 0.62 灰 / 0.45 pt、刻度数字 2.2 pt 近黑、每轴 3 个好刻度、去掉会撞车的 X/Y/Z 轴名；② Image 列 3D 改彩色（`seal3d` 色带 + 线性映射，与 PDDiff 一致）；③ 诊断面板遇到多目标时每个连通域各画一个红框（单目标 36% 面板、多目标 0.45/n）**。Visio 版由 [tools/make_visio_qualitative.ps1](tools/make_visio_qualitative.ps1) 用 Visio COM 生成（仅 Windows + 已装 Visio）：**第 1 页 `ALL` 把 11 个样例纵向摞成一页**（表头只出现一次，253 个形状，15×31.3 in），之后每样例一页（每页 34 个独立形状：表头矩形 + 22 张图片 + 页脚说明），全部可手动调整格式。
 - 定性图（论文拼图用）：12 个方法与 Ours 的二值预测图在 `results/<Method>/Seal/test_binary/`（1,983 张，`pixel >= 128` → 255），由 [tools/make_binary_maps.py](tools/make_binary_maps.py) 与 [tools/make_qualitative.sh](tools/make_qualitative.sh) 生成；样例拼图在服务器 `qualitative/<stem>/panel.png`（RGB/热红外/GT/预测叠加，13 行），样例清单 `docs/Seal定性对比样例.json`，说明见 [docs/Seal定性对比图.md](docs/Seal定性对比图.md)。
 - ROC / P-R / Pd–Fa 曲线：像素级曲线用 [tools/roc_hist.py](tools/roc_hist.py) 把预测值按 GT 前景（`gt > 127`）/背景分箱成 256 桶直方图（[tools/roc_hist_all.sh](tools/roc_hist_all.sh) → `results/roc_hist/<Method>.json`），目标级曲线用 [tools/target_curves.py](tools/target_curves.py) 在 63 个阈值上做 8 连通 + 质心 <3 px 一对一匹配（[tools/target_curves_all.sh](tools/target_curves_all.sh) 13 进程并行约 1.5 h → `results/target_curves/<Method>.json`）；出图分别是 [tools/plot_roc_pr.py](tools/plot_roc_pr.py) 与 [tools/plot_target_curves.py](tools/plot_target_curves.py)。产物按版本存 `Ours/roc_pr/<version>/`，**`v10_20261105/`（正文主图，Ours + 8 个重点对比方法：DNA-Net / MSHNet / RPCANet / HDNet / L2SKNet / BGM / RPCANet++ / SAM3）与 `v11_20261105/`（全量 14 条：再加 UIU-Net / SCTransNet / ILNet / DRPCA-Net / DURD）**，两者横轴都改成 **0–16×10⁻⁴（刻度 0/4/8/12/16）**，斜线因此更陡；**v10 用 1:1 坐标框（`--square`），v11 用 6.8×3.3 的长方形画布（不带 `--square`，约 1.92:1，用户偏好）**；`v9_20261105/`（全量）与 `v8_20261105/`（8 个）是 8×10⁻⁴ 宽扁版式的前身**，画法沿用 v5，Ours 红色加粗置顶（`--highlight Ours`）；`v7_20261105/` 是旧 Ours 预测的同一版式，`v6_20261105/` 是误删 Ours 的一版，二者仅留档；`v5_20261105/` 为 13 方法版（Ours + 12 基线），**`v12_20261105/` 为现行目标级 Pd–Fa（1105 批次，线性 + log）**，**`v13_20261105/` 是 v11 的 P-R 改进版**（画布、ROC 与 v11 逐点相同，只改 P-R 的显示：`--pr-min-pred 50000` + `--pr-endpoint-dot`，见下条），`v3_20261105/` 为旧预测的目标级版，`v4/v2/v1` 留档；每次同时存 PNG（600 dpi）与 PDF + `curves.json` + `summary.md`。**画法（用户明确要求）**：每个方法一条折线且只有两段直线——`(0,0) → 拐点 → (右边框, 平台)`；平台取右边框处的值（像素级 = TPR@FPR=窗口右端，目标级 = max Pd），拐点 = 沿横轴升序第一个 ≥0.98×平台 的点（`--two-segment`、`--knee-frac`）。横轴要够长（v10/v11 用 `--xmax 16e-4 --fig-width 4.8 --square`；v8/v9 为 `--xmax 8e-4 --fig-width 6.8`），否则平台贴右边框、看起来"戛然而止"；**`--square` 把坐标框设成 1:1**（`set_box_aspect(1)`），ROC 的斜线与纵轴夹角更小、P-R 是标准 45°；**`--legend-inside` 把图例放进坐标框**（ROC 右下、P-R 左下，>9 条自动两列），导出的 PNG 因此更紧凑（v10 正方形 2645×2564；v11 长方形 3589×1871）；两联图 `roc_pr` 的面板间距 0.28→0.14；改横轴时平台值按新的右边框取（`TPR@窗口右端`），所以 8→16×10⁻⁴ 后 SCTransNet/ILNet/UIU-Net 的平台从 0.88 升到 0.94；**面积指标仍报 `pAUC@5×10⁻⁴`**，该列不随画宽变化；P-R 保留 (0,1) 起点与 recall→1 的尾巴（`--pr-style v1`）；**P-R 为什么像"扇子且在半空截断"（v13 处理）**：Seal 预测是 8 位量化 + 大量硬零（`t=255` 时前景召回只有 0.25–0.61，多数方法在 28–57 % 的 GT 像素上恒为 0），recall 到不了 1，曲线右端自然停住；同时 `t` 接近 255 时整幅只剩几千个预测像素，precision 由个位数像素决定，于是 recall≈0 处冒出竖直毛刺、各条曲线分叉成扇面。v13 用两个**纯显示**开关处理、不动数据：`--pr-min-pred 50000` 丢掉"预测像素 < 5 万"的阈值（毛刺缩到几乎看不见）、`--pr-endpoint-dot` 在每条曲线末端加圆点（读作"到此为止"而非"画漏了"）；仍保留 (0,1) 哨兵，因为去掉后起点悬空（`--pr-style v2` 试过）。数据侧原因（硬零压低 recall）只能靠模型/后处理改，画图解决不了，分析见 [docs/Seal_ROC_PR曲线.md](docs/Seal_ROC_PR曲线.md)；**补充图 `v13_20261105/pr_1.{png,pdf}`**（`--pr-close`）把每条曲线从最后实测点**虚线**外推到 `(1,0)`、交接点画空心圆（实线=实测、虚线=外推）：这不是新数据，只说明"曲线本来就该到 (1,0)"——`recall=1` 时 precision 等于前景占比（Seal test 前景 105,712 px / 总 514,338,642 px = **2.06×10⁻⁴**），在 0–1 纵轴上即 0，所以补到 (1,0) 与补到 (1,2e-4) 肉眼无差；中间段按直线近似故称"大致"，虚线段不参与 pAUC/AP 积分，排名不变；补齐后各虚线在右下角**收成一束**是应有现象，不表示方法接近；图例贴紧坐标轴右缘（`bbox_to_anchor=(ax.x1+0.012, …)`，锚在固定图幅比例上会留一大片空白）；`--highlight` 指定加粗置顶的方法（默认 `Ours`，方法集里没有它时不加粗）；**红色只留给 highlight**，其余曲线从不含红色的 16 色调色板里取（`color_map()`），否则 14 条曲线时第一个基线和 Ours 会同为红色。**一致性**：像素级 `t=128` 的 precision/recall 可复原表中 F1/IoU（Ours precision 0.58130、recall 0.82963 → F1 0.68361、IoU 0.51931，与第 20 行一致；旧预测同点为 0.64637/0.59388 → 0.61912/0.44835）；目标级 `t=128` 的 Pd/Fa 与表中 13 行全部逐位吻合（Ours 0.89151 / 1.717e-05，与第 20 行一致；旧预测 0.82731 / 2.100e-06 存档于 `results/target_curves/Ours_prev_20261105.json`）。**读图**：① 面积指标报 **pAUC@5×10⁻⁴**（基线操作点 Fa@t=128 ≤ 2.4×10⁻⁴）；v8 换上 1105 的最新 Ours 后，两个窗口的 pAUC（**0.85234 / 0.89420**）与 AP（**0.69984**）都第一，像素 TPR@t=128 从 0.594 提到 **0.830**、FPR 从 6.7×10⁻⁵ 升到 1.2×10⁻⁴（仍是 9 个里第二低）；ROC 上 Ours 在 FPR≈3×10⁻⁴ 就到 0.94 平台，其余 8 个最高只有 0.737；SAM3 平台最高（0.737）但拐点在 4.9×10⁻⁴、Fa 是 Ours 的 3.6 倍，属"用更多误检换更高检出"，正文要把 Fa 一并给出；画到 8×10⁻⁴ 后按窗口积的 `pAUC@8×10⁻⁴` 会把弥散输出方法抬高，summary 两个窗口都列；② 全范围 AUC 不能用来排名（几乎不预测前景的方法 0.977–0.981），与 S/MAE 被背景主导同类；③ 目标级图（`v12_20261105/`，1105 批次）Ours 平台 Pd 0.922 最高、拐点 Fa 6.0×10⁻⁶ 比次优 HDNet（5.2×10⁻⁵）低 8.6 倍，拐点 Fa 跨度 17 倍，**目标级仍主推 log 轴**；④ 像素级 `Pd@t=128` 是前景像素召回率，与表中目标级 Pd 不同口径。曲线成品按同样目录结构同步到服务器 `Ours/roc_pr/`，重画脚本同步在服务器 `tools/`；1105 的 Ours 预测包同时上传到服务器 `Ours/1105Ours_result/Ours.zip`。**曲线与第 20 行 Ours 的八项指标现在同为 1105 这批预测**，可以互相引证；旧预测（`test_maps_20261105_prev`）的曲线与指标只作历史对照。口径、版本对照与复现命令见 [docs/Seal_ROC_PR曲线.md](docs/Seal_ROC_PR曲线.md)，预览 `docs/assets/seal_roc_pr_v13.png`（现行，全量 14 条）、`docs/assets/seal_roc_pr_v10.png`（8 个对比方法版）、`docs/assets/seal_pd_fa_v12.png`（现行目标级）、`docs/assets/seal_pd_fa_v3.png`（旧预测目标级）。
 - IoU 的边界敏感性：Seal 目标平均 14.3 像素，把 GT 膨胀/腐蚀 1 像素当预测只能得到 IoU 0.3910 / 0.0826；表中 IoU 0.19–0.31 对应约 1–2 像素边界误差，不能读作分割质量百分比，须与 Fw/F1/Pd/Fa 合看，详见 [定义对照](docs/小目标评价指标_定义与代码对照.md#iou-的边界敏感性seal-gt-实测)。

diff --git a/docs/Seal定性图_论文版式.md b/docs/Seal定性图_论文版式.md
@@ -129,7 +129,7 @@ python tools/build_paper_qualitative.py \
 | v9 | 已删除 | 已删除 | **去掉黑边**：ROI 改成「固定边长正方形、贴边整体内移」，`side = min(max(min_box, span+2·margin), H, W)`，窗口永远完整落在图像内，不再出现 64×43 这种被裁后补黑的非方形；贴边目标的 GT 因此不在正中心而靠近对应边框（红框跟 GT 走，位置仍正确） |
 | v10 | 已删除 | 已删除 | **红框只留一个**：Image 列回到整幅 622×417（压缩成正方形）并画唯一一个正方形红框，表示后面各列是这块区域放大出来的；Mask…Ours 不再画任何红框（保留 TP 白/FP 红/FN 绿）。红框边长按 ROI 面积换算（`ROI×sqrt(sx·sy)`），64 px ROI → 约 12.5% 面板。另提供 `--image-mode crop417`（417×417 原比例窗口，不变形、框即真实 ROI） |
 | v11 | 已删除 | 已删除 | **Ours 换成 1105 最新预测**（`Ours/test_maps` 由旧预测改名 `test_maps_20261105_prev`，新预测解到 `test_maps`）；版式与 v10 全同。11 个样例在新预测下 F1 0.55–0.87、目标全检出，9 个胜过全部基线、2 个仅比 SAM3 低 0.01–0.02，因此沿用原 11 张；**Image 列红框尺寸统一**：边长固定 `64×sqrt(384/622×384/417) ≈ 48 px`（含边框实测 51–54 px），不随 GT 跨度变化 |
-| v12（当前） | `Ours/qualitative/v12_20261105/` | `Ours/qualitative/v12_20261105/` | **Image 列删掉全部红框**：v11 的统一 48 px 框对 2688（GT 49×57）、2120（19×97）、2894（98×72）偏小，目标会露到框外；既然 Mask 之后各列本来就是同一块 ROI 的 6 倍放大，定位框不再必要，v12 的 Image 列只留原图（整幅 622×417 压成正方形），实测 Image 列 0 个红色像素。`--image-box` 保留为复现 v10/v11 的可选开关。其余版式、样例与 1105 预测与 v11 相同 |
+| v12（当前：Image 列无红框 + 3D 刻度收紧） | `Ours/qualitative/v12_20261105/` | `Ours/qualitative/v12_20261105/` | **Image 列删掉全部红框**：v11 的统一 48 px 框对 2688（GT 49×57）、2120（19×97）、2894（98×72）偏小，目标会露到框外；既然 Mask 之后各列本来就是同一块 ROI 的 6 倍放大，定位框不再必要，v12 的 Image 列只留原图（整幅 622×417 压成正方形），实测 Image 列 0 个红色像素。`--image-box` 保留为复现 v10/v11 的可选开关。其余版式、样例与 1105 预测与 v11 相同 |
 
 服务器保留全部历史版本；本地只留最新一版，**整个 `Ours/qualitative/` 不进 git**（单版 100 MB 量级，`.gitignore` 已整目录排除）。
 
